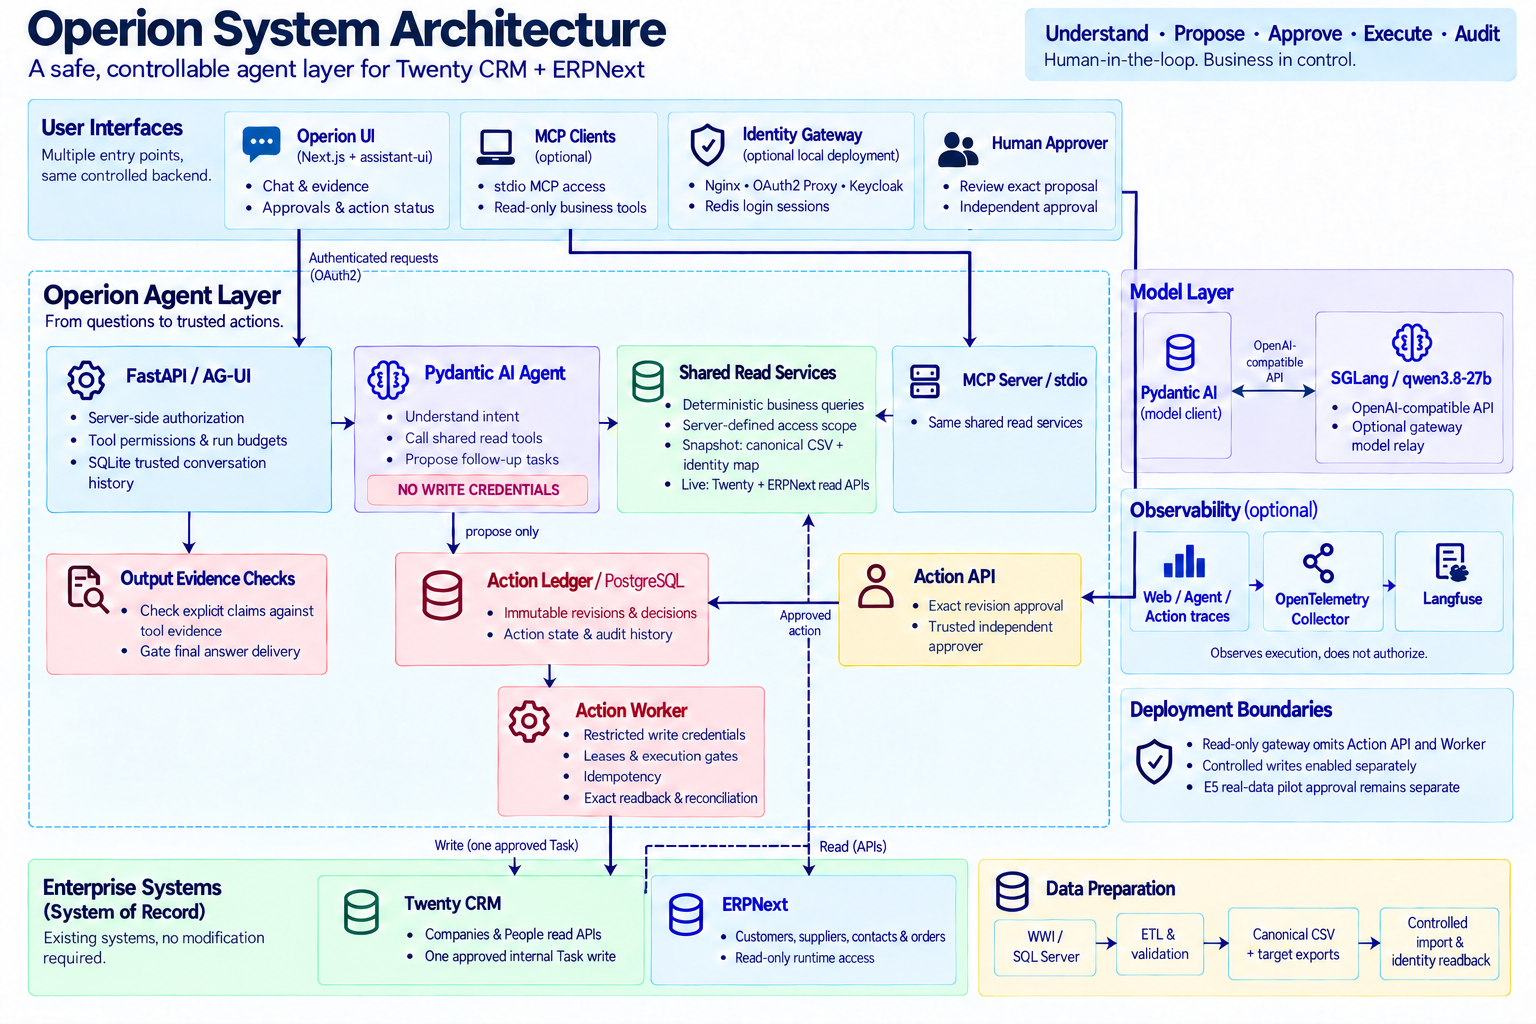
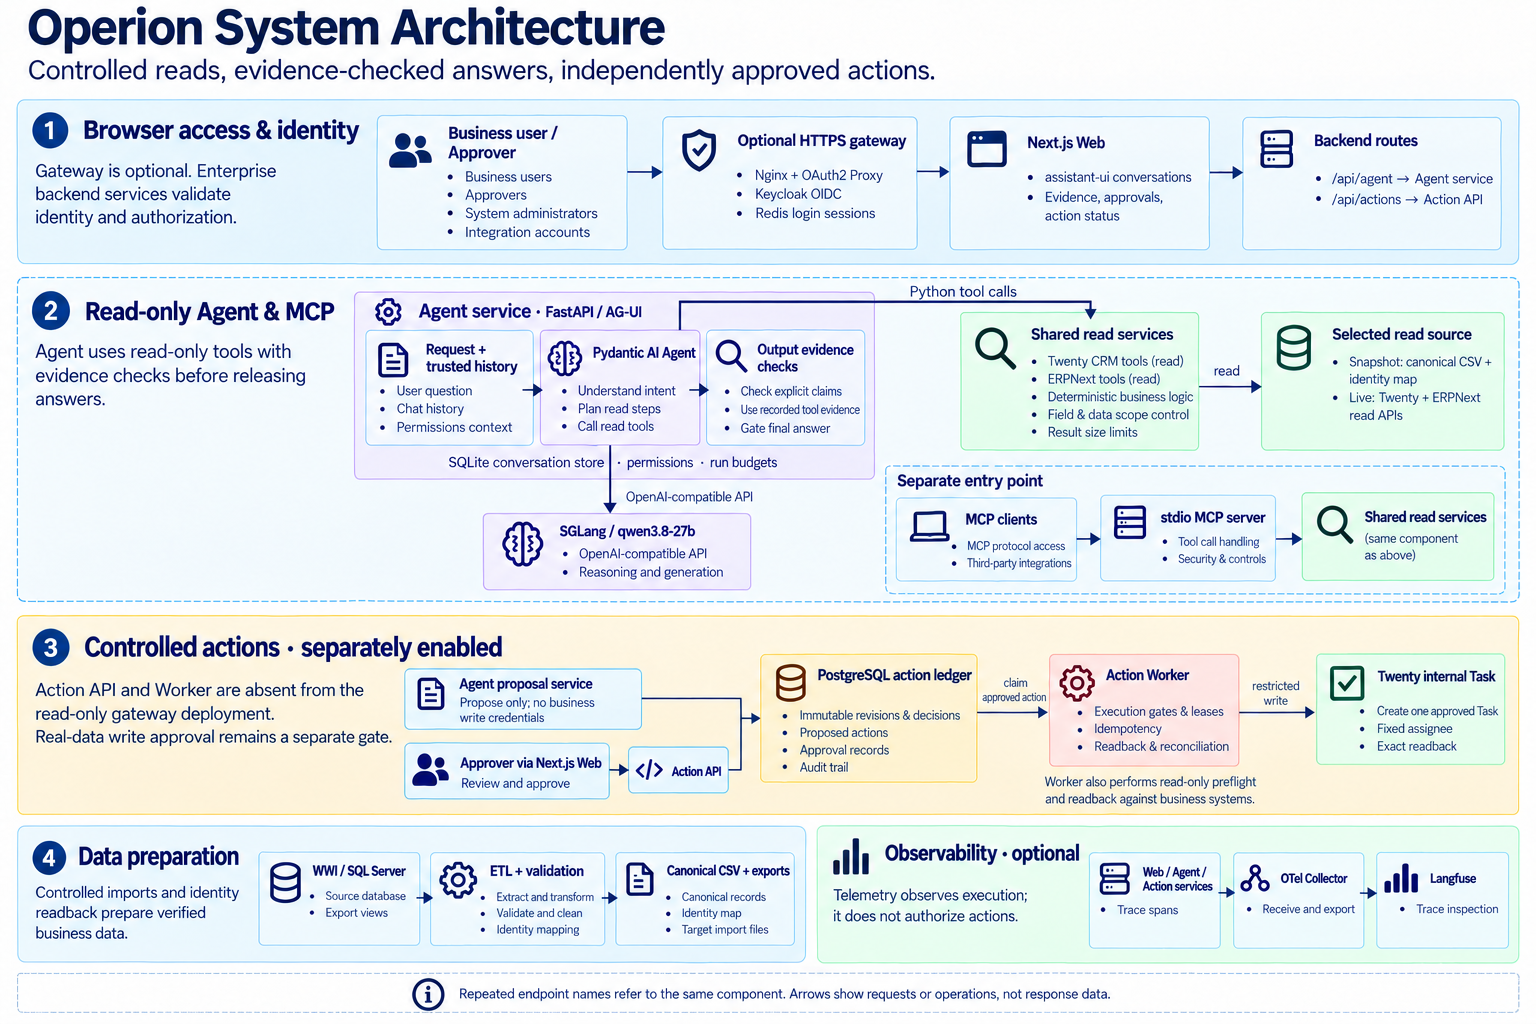
docs: clarify architecture flow layout and service boundaries

diff --git a/README.zh-CN.md b/README.zh-CN.md
@@ -18,6 +18,8 @@
 
 按当前实现核对。此图展示代码中的组件关系；可选服务需要单独启用，不代表已经通过 E5 生产或真实数据试运行验收。
 
+图中按浏览器入口、Agent/MCP 查询、受控动作、数据与遥测分区。重复出现的端点名称指同一组件；箭头表示请求或操作方向，不表示响应数据流向。Agent 服务边界内的模块属于该服务内部组件。
+
 - **Web 与身份**：Next.js / assistant-ui 提供对话、证据、审批与动作状态界面，服务端路由代理 AG-UI/SSE 和动作请求。可选本地 HTTPS 网关包含 Nginx、OAuth2 Proxy、Keycloak 与 Redis 登录会话；企业模式服务执行 OIDC 身份验证和服务端权限范围检查。
 - **Agent 与证据**：FastAPI 承载 Pydantic AI，通过 OpenAI 兼容接口调用本地 SGLang。SQLite 保存可信对话历史；工具权限、运行预算和基于工具证据的输出检查约束执行与最终回答。输出检查覆盖明确支持的声明，并不证明任意自然语言推断。
 - **共享只读服务**：Agent 直接调用 Python 业务工具；独立 stdio MCP 服务向 MCP 客户端暴露同一查询层。snapshot 模式读取 canonical CSV 与 identity map；live 模式使用只读凭据查询 Twenty、ERPNext。两种模式均受权限范围与来源信息约束，固定履约案例仅适用于快照。

diff --git a/README.md b/README.md
@@ -23,6 +23,11 @@ Architecture reviewed against the current implementation. This is a
 component map; optional services are enabled separately, and the diagram does
 not imply E5 production or real-data pilot approval.
 
+The diagram separates browser access, Agent/MCP reads, controlled actions, and
+data/telemetry flows. Repeated endpoint names refer to the same component;
+arrows show requests or operations, rather than response data. Components inside
+the Agent service boundary run within that service.
+
 - **Web and identity:** Next.js / assistant-ui provides conversations, evidence,
   approvals, and action status. Server routes proxy AG-UI/SSE and action requests.
   The optional local HTTPS gateway uses Nginx, OAuth2 Proxy, Keycloak, and Redis
